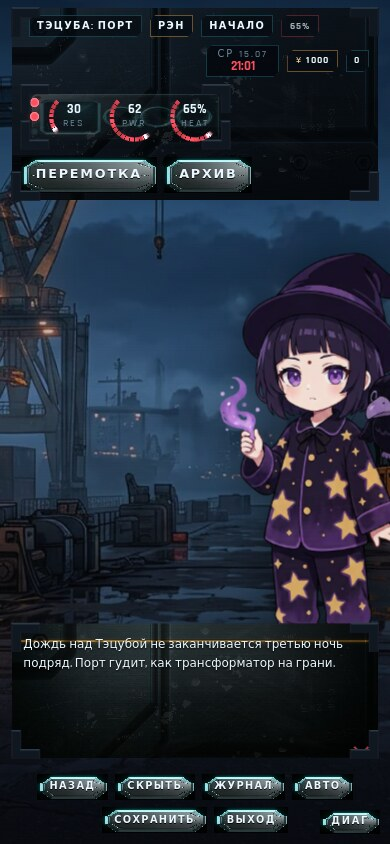
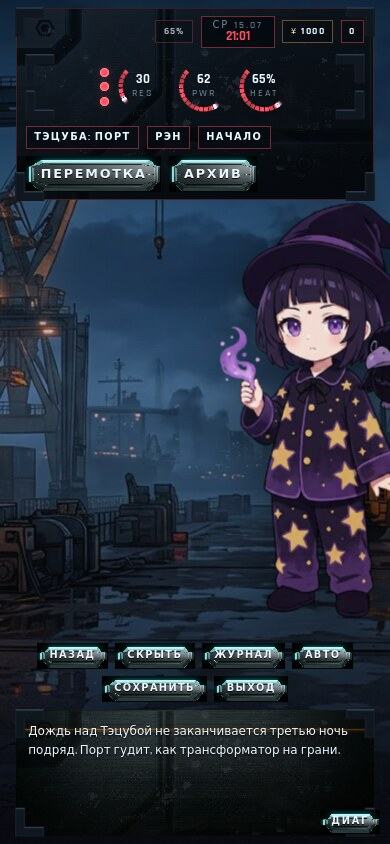
design(three-ui): finish the 9-slice — corner/edge/middle split done properly
- key plate: side slice 64->78px so the hex bolts fall in the edge patches
  and the middle is a plain face; uniform border width kept; middle stretch
  is a downscale at every shipped key size (no smear, no bolt frieze)
- console plate: 100% 100% stretch replaced by a real 9-slice
  (48 64 110 64 fill / 12 18 26 18) — amber inlay stays a crisp line
- hud bay face plate retired: fixed-position wells cannot size without
  stretching or misaligning under the live 3D gauges
- docs: THREE_UI.md session-12 addendum table, prompts ui-plates-01 §07/§08
- shots/11_* refreshed; ALL CLEAN re-verified

Changed region(s): [[0.0308, 0.0, 1.0, 0.9858], [0.0923, 0.0, 0.3385, 0.0616]]

diff --git a/design/preview/three-ui.css b/design/preview/three-ui.css
@@ -239,7 +239,16 @@ html:not(.no-webgl) .title-glow { display: none; }
     padding: clamp(0.5rem, 0.4rem + 0.5vw, 0.85rem) clamp(0.9rem, 0.7rem + 1vw, 1.9rem);
     border: 0;
     background: transparent;
-    border-image: var(--key) 64 fill / var(--key-b) / 0 stretch;
+    /* 9-slice, corner/edge/middle split as the technique demands:
+         · slice 64 top/bottom, 78 left/right — measured so the plate's two
+           hex bolts fall INSIDE the side edge patches, leaving a plain
+           brushed face as the middle patch (a 64px side slice put the bolts
+           in the middle and tiling repeated them like a frieze);
+         · ONE uniform border-image-width (--key-b): corner patches scale
+           uniformly, edge patches stretch along their own axis only;
+         · middle stretches: on every shipped key size that is a DOWNSCALE of
+           the 475px-wide face patch, so the grain never smears. */
+    border-image: var(--key) 64 78 64 78 fill / var(--key-b) / 0 stretch;
     font-size: var(--fs-hud);
     font-weight: 700;
     letter-spacing: 0.14em;
@@ -358,15 +367,10 @@ html[data-alert-tier="alarm"] .badge--alert { animation: tuStrobe 0.9s steps(2, 
     gap: clamp(0.6rem, 1.4vw, 1.6rem);
     padding: 0.45rem clamp(0.7rem, 1.6vw, 1.5rem);
 }
-.hud-bay::before {
-    content: "";
-    position: absolute;
-    inset: 0;
-    z-index: -1;
-    background: var(--bay) center / 100% 100% no-repeat;
-    opacity: 0.42;
-    mix-blend-mode: lighten;
-}
+/* The bay face plate art was retired here: its wells are painted at fixed
+   positions, so any sizing either stretches it or misaligns the wells under
+   the live 3D gauges. The bay wears the HUD panel's tiled armour instead;
+   the instruments themselves are the 3D layer. (prompts/ui-plates-01.md §08) */
 
 .gauge { position: relative; width: clamp(52px, 6.4vmin, 84px); aspect-ratio: 1; display: grid; place-content: center; text-align: center; }
 .gauge b { display: block; font-size: var(--fs-hud); font-variant-numeric: tabular-nums; line-height: 1; }
@@ -410,7 +414,10 @@ html[data-alert-tier="alarm"] .badge--alert { animation: tuStrobe 0.9s steps(2, 
     width: min(var(--measure), 100%);
     justify-self: center;
     padding: clamp(0.7rem, 0.5rem + 1vw, 1.3rem) var(--pad-x, clamp(0.7rem, 0.5rem + 1vw, 1.6rem)) clamp(0.8rem, 0.6rem + 1vw, 1.4rem);
-    background: var(--console) center / 100% 100% no-repeat;
+    /* the console plate is 9-sliced too: the amber inlay lives in the top
+       edge patch (slice 48px -> 12px, so the line stays a crisp ~1.5px), the
+       body tiles instead of stretching 768px of art into a 150px band */
+    border-image: var(--console) 48 64 110 64 fill / 12px 18px 26px 18px / 0 round;
     background-color: rgba(4, 8, 12, 0.86);
     min-height: clamp(96px, 15vh, 180px);
     cursor: pointer;

diff --git a/design/preview/assets/ui/prompts/ui-plates-01.md b/design/preview/assets/ui/prompts/ui-plates-01.md
@@ -121,10 +121,14 @@ removes the black surround (measured plate bounds x 27.6–71.5%, y 7.3–90.1%)
 The committed webp is the trimmed plate; the untrimmed source stays in `_wip/`.
 Reason: `border-image` slice regions start at the image edge, so any surround
 inside the slice is drawn as a black foam frame around every key. Used through
-`border-image: … 64 fill` with ONE uniform `border-image-width`
-(`--key-b`): the square corner patches scale uniformly and the edge patches
-stretch along their own axis only — a correct corner/edge/middle split, so a
-26px key and a 90px key wear the same machined bevel. On `file://` the black surround is trimmed by
+`border-image: … 64 78 64 78 fill` with ONE uniform `border-image-width`
+(`--key-b`). The 78px side slice is measured: it puts the plate's two hex
+bolts inside the side EDGE patches, leaving a plain brushed face as the
+middle patch — with a 64px side slice the bolts sat in the middle and any
+tiling repeated them like a frieze. Corners scale uniformly, edges stretch
+along their own axis, the middle stretches (a downscale at every shipped key
+size): a correct corner/edge/middle split, so a 26px key and a 90px key wear
+the same machined bevel. On `file://` the black surround is trimmed by
 the slice; over http it could also be screen-blended.
 
 ## 08 · `ui_hud_instruments.webp` — instrument bay face plate
@@ -139,7 +143,9 @@ the slice; over http it could also be screen-blended.
 > steel with cyan glow accents. No text, no letters, no numbers, no logos, no
 > watermark. Game UI asset, high detail, flat material study.
 
-**Result:** accepted with a caveat: its wells are painted at fixed positions,
-so it cannot anchor the *live* instruments (those are 3D and follow the DOM).
-Used as an unblended texture under the bay at 55% opacity — the etched ticks
-read as machining under the real 3D gauges instead of competing with them.
+**Result:** accepted, then **retired from the bay** in session 12: its wells
+are painted at fixed positions, so any sizing either stretches the plate or
+misaligns the wells under the live 3D gauges — and `100% 100%` was exactly the
+stretch this prototype exists to avoid. The bay now wears the HUD panel's
+tiled armour; the instruments are the 3D layer. The plate stays in the set as
+the reference for what the 3D bay replaces.

diff --git a/design/THREE_UI.md b/design/THREE_UI.md
@@ -130,6 +130,20 @@ Re-verified after the recomposition: ALL CLEAN (0 console errors, 0 network,
 9/9 keys hit-testable at 1440×900 / 390×844 / 880×400), shots refreshed in
 `shots/11_*`.
 
+### 9-slice, corrected twice (user review #2)
+
+The corner/edge/middle split was still wrong after the first pass, in three
+places a stretched texture can hide:
+
+| Surface | Was | Now |
+|---|---|---|
+| `.key` plate | side slice 64px left the plate's hex bolts inside the *middle* patch, so a tiled middle repeated them like a frieze; a stretched middle smeared them instead | slice `64 78 64 78`: bolts live in the side **edge** patches, the middle is a plain brushed face; uniform `--key-b` width; middle stretches — a downscale at every shipped key size, so nothing smears |
+| `.console` plate | `background: 100% 100%` — 768px of art crushed into a 150px band | real 9-slice: `48 64 110 64 fill / 12px 18px 26px 18px`, the amber inlay stays a crisp ~1.5px line inside the top edge patch |
+| `.hud-bay` face plate | `100% 100%` stretch of art whose wells are painted at fixed positions | retired: the bay wears the HUD panel's tiled armour; the instruments are the 3D layer (see prompts §08) |
+
+Proof crops: `/tmp`-side comparison of a 360px and a 90px key shows one
+continuous plate with identical bevel thickness at both sizes.
+
 ## Port plan into `game/` (not started, by decision)
 
 1. **Keep the contract, drop the dependency.** `game/` ships zero deps and
